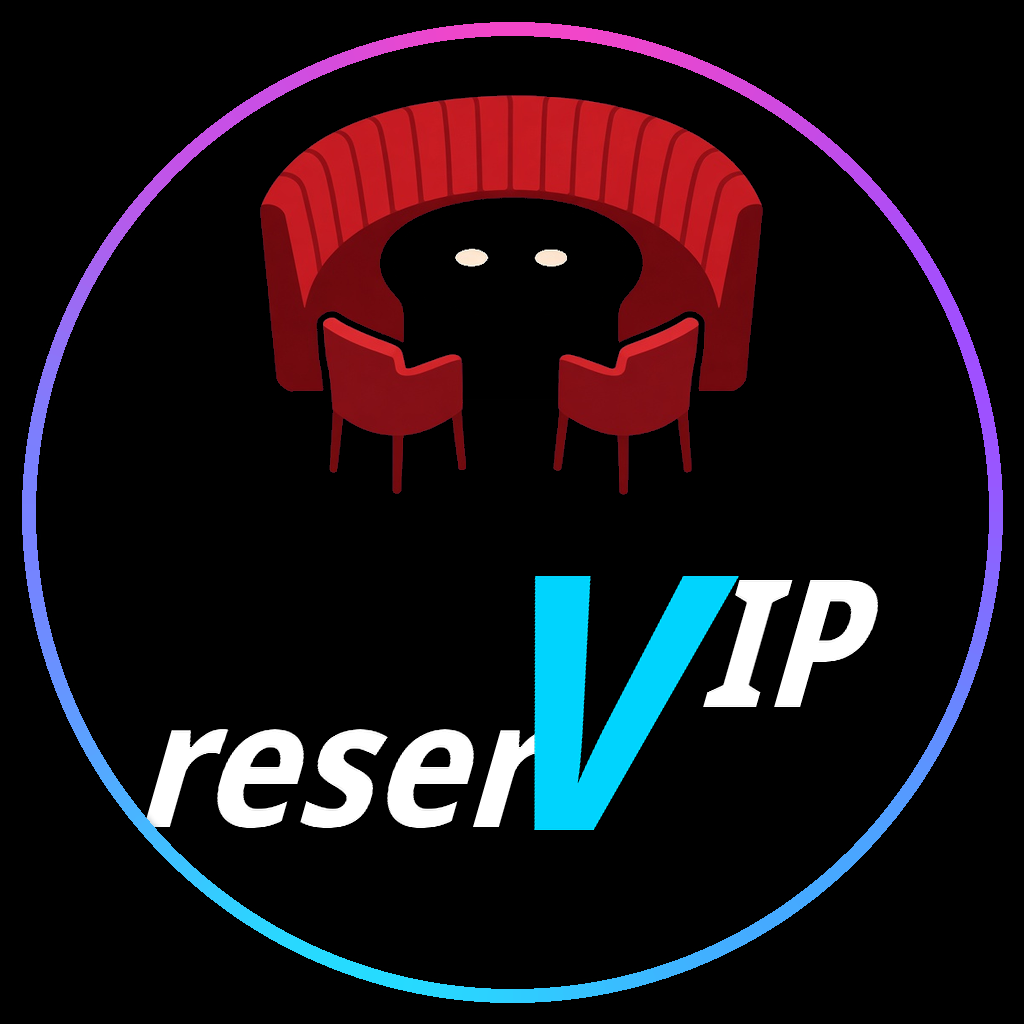
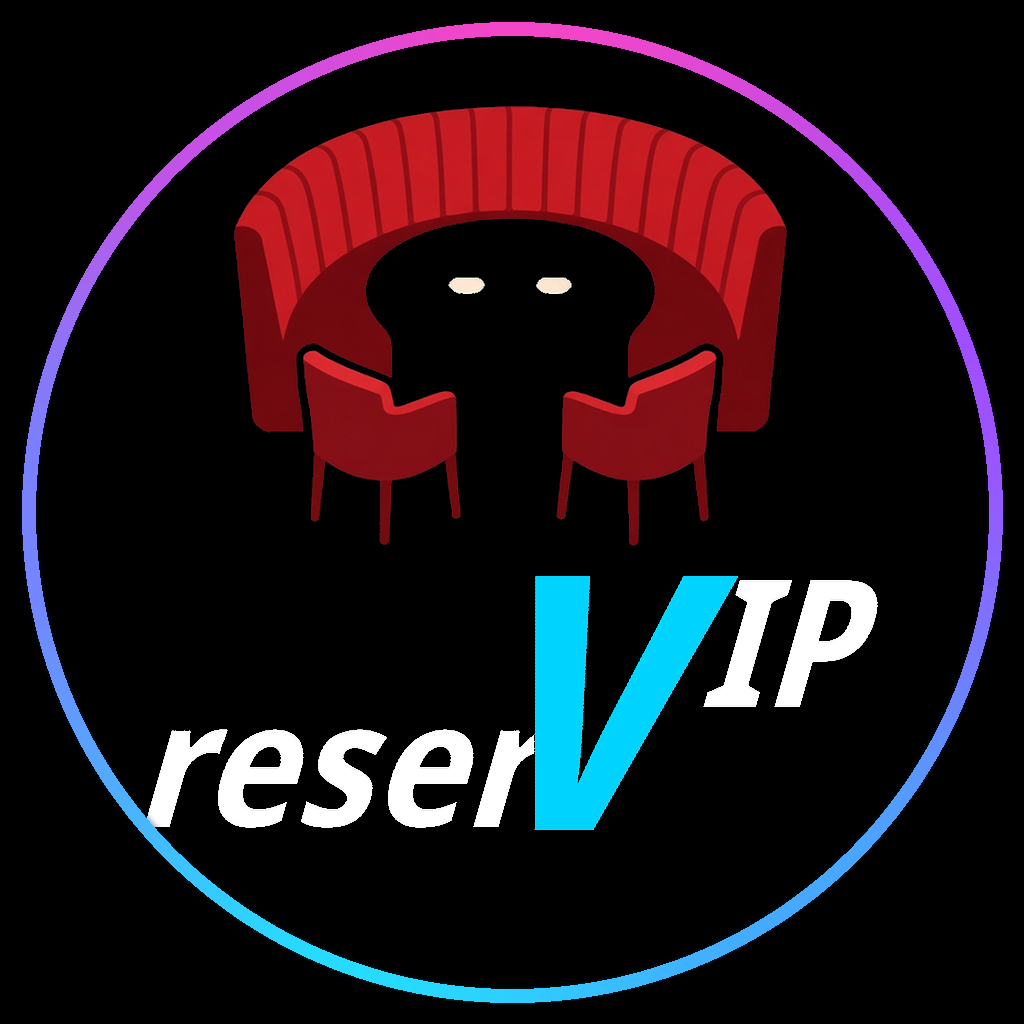
fix: VIP lounge furniture +10% and shifted down
Scale the booth/chairs graphic 1.1× and move it down; leave the
existing reserVIP wordmark pixels and ring layering unchanged.
Cache-bust review VIP assets to ?v=15.

Changed region(s): [[0.2188, 0.0938, 0.7812, 0.5312]]

diff --git a/icon-review-v4-chrome-compare.html b/icon-review-v4-chrome-compare.html
@@ -128,7 +128,7 @@
       <figure>
         <figcaption>VIP reserV <span class="tag nl">nightlife</span></figcaption>
         <div class="stage solid">
-          <img src="./images/chrome/vip-nightlife.jpg?v=14" alt="VIP reserV nightlife"/>
+          <img src="./images/chrome/vip-nightlife.jpg?v=15" alt="VIP reserV nightlife"/>
         </div>
       </figure>
       <figure class="hero">
@@ -208,7 +208,7 @@
       <figure>
         <figcaption>VIP reserV <span class="tag trad">tiffany V ref</span></figcaption>
         <div class="stage solid">
-          <img src="./images/chrome/vip-traditional.jpg?v=14" alt="VIP reserV traditional tiffany V reference"/>
+          <img src="./images/chrome/vip-traditional.jpg?v=15" alt="VIP reserV traditional tiffany V reference"/>
         </div>
       </figure>
     </div>
@@ -236,7 +236,7 @@
       <figure>
         <figcaption>VIP reserV <span class="tag trad">traditional</span></figcaption>
         <div class="stage solid">
-          <img src="./images/chrome/vip-traditional.jpg?v=14" alt="VIP reserV traditional"/>
+          <img src="./images/chrome/vip-traditional.jpg?v=15" alt="VIP reserV traditional"/>
         </div>
       </figure>
       <figure class="hero">
@@ -267,7 +267,7 @@
       <figure>
         <figcaption>VIP NL</figcaption>
         <div class="stage solid" style="--s:160px">
-          <img src="./images/chrome/vip-nightlife.jpg?v=14" alt=""/>
+          <img src="./images/chrome/vip-nightlife.jpg?v=15" alt=""/>
         </div>
       </figure>
       <figure>
@@ -285,7 +285,7 @@
       <figure>
         <figcaption>VIP Trad</figcaption>
         <div class="stage solid" style="--s:160px">
-          <img src="./images/chrome/vip-traditional.jpg?v=14" alt=""/>
+          <img src="./images/chrome/vip-traditional.jpg?v=15" alt=""/>
         </div>
       </figure>
       <figure>

diff --git a/icon-review-square-green-halo.html b/icon-review-square-green-halo.html
@@ -202,7 +202,7 @@
       <h2>Full set — source marks</h2>
       <div class="row">
         <figure><figcaption>floqCast</figcaption><div class="stage" style="--s:140px"><img src="./images/review/actual-icons/floqcast-actual.png" alt=""/></div></figure>
-        <figure><figcaption>VIP reserV</figcaption><div class="stage" style="--s:140px"><img src="./images/review/actual-icons/vip-reserv-actual.png?v=14" alt=""/></div></figure>
+        <figure><figcaption>VIP reserV</figcaption><div class="stage" style="--s:140px"><img src="./images/review/actual-icons/vip-reserv-actual.png?v=15" alt=""/></div></figure>
         <figure><figcaption>FloqAi</figcaption><div class="stage" style="--s:140px"><img src="./images/review/actual-icons/floqai-actual.png" alt=""/></div></figure>
         <figure><figcaption>SHOUT OUT</figcaption><div class="stage" style="--s:140px"><img src="./images/review/actual-icons/shoutout-actual.png" alt=""/></div></figure>
       </div>
@@ -211,7 +211,7 @@
       <h2>Optional green LED squares</h2>
       <div class="row">
         <figure><figcaption>floqCast</figcaption><div class="led-tile"><img src="./images/review/actual-icons/floqcast-actual.png" alt=""/></div></figure>
-        <figure><figcaption>VIP reserV</figcaption><div class="led-tile"><img src="./images/review/actual-icons/vip-reserv-actual.png?v=14" alt=""/></div></figure>
+        <figure><figcaption>VIP reserV</figcaption><div class="led-tile"><img src="./images/review/actual-icons/vip-reserv-actual.png?v=15" alt=""/></div></figure>
         <figure><figcaption>FloqAi</figcaption><div class="led-tile"><img src="./images/review/actual-icons/floqai-actual.png" alt=""/></div></figure>
         <figure><figcaption>SHOUT OUT</figcaption><div class="led-tile"><img src="./images/review/actual-icons/shoutout-actual.png" alt=""/></div></figure>
       </div>
